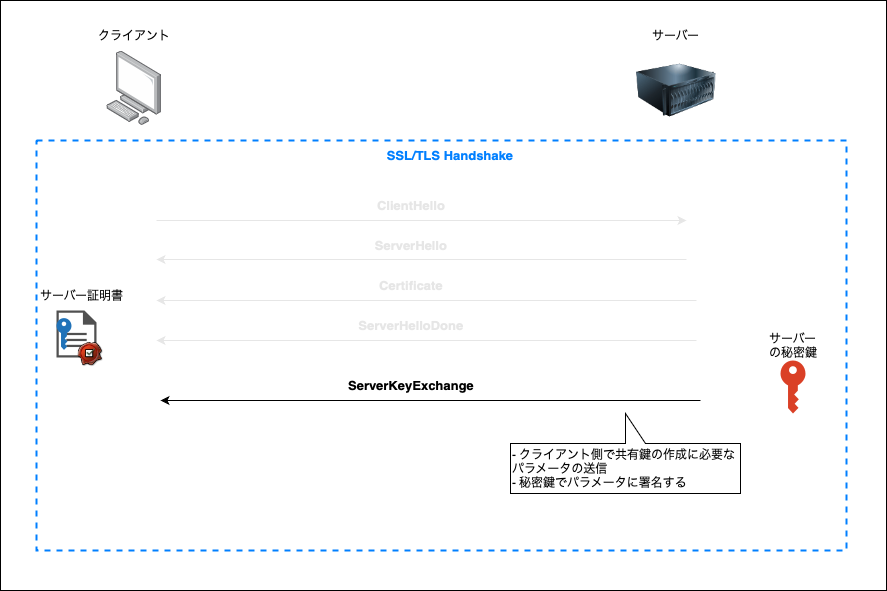
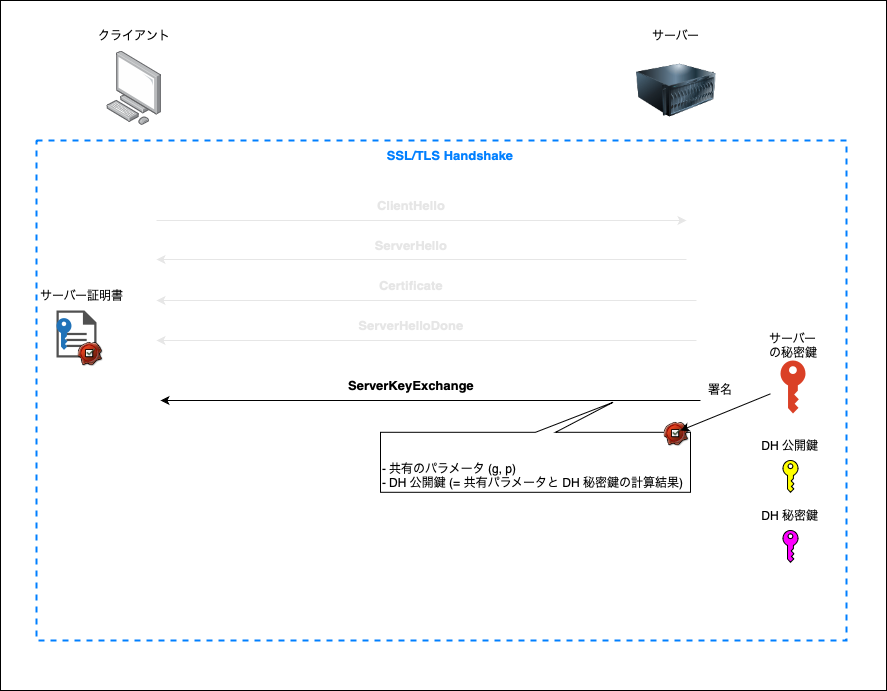
Add note about TLS handshake with DH ey exchange

diff --git a/SSL&TLS.md b/SSL&TLS.md
@@ -170,11 +170,13 @@ ClientHello ~ Certificate までは同じ
 
 4\. ServerKeyExchange (クライアント ← サーバー)
 
-- DH 鍵交換方式での共有鍵の作成に必要なパラメータを送信
-    - 公開パラメータ
-    - サーバー側の DH 公開鍵
+- DH 鍵交換方式での DH 秘密鍵と DH 公開鍵の生成
 
-- パラメータにはサーバーの秘密鍵で RSA 署名をつける
+- DH 鍵交換方式での共有鍵の作成に必要なパラメータを送信
+    - 共有パラメータ (K = g^x mod p の g と p)
+    - DH 公開鍵 (g^x mod p の計算結果)
+
+- 上記データにはサーバーの秘密鍵で署名をつける
 
 <img src="./img/TLS-Handshake_10.png" />
 
@@ -182,11 +184,55 @@ ClientHello ~ Certificate までは同じ
 
 5. ClientKeyExchange (クライアント → サーバー)
 
-- 受け取ったサーバーの DH 公開鍵 および公開パラメータとクライアント側の DH 秘密鍵より DH 共通鍵 = 「プリマスターシークレット」を生成する
+- 受け取ったデータを証明書(公開鍵)で検証する
+
+- クライアント側で DH 秘密鍵と DH 公開鍵の生成
+
+- 受け取ったサーバーの DH 公開鍵 および共有パラメータとクライアント側の DH 秘密鍵より「プリマスターシークレット」を生成する
 
 - プリマスターシークレット、クライアントランダム、サーバーランダムより「マスターシークレット」を作成する
 
-- マスターシークレットより、セッションキーと MAC キーを生成する
+- マスターシークレットより、共通鍵と MAC キーを生成する
 
 - クライアント側の DH 公開鍵をサーバーに送信する
+
+<img src="./img/TLS-Handshake_11.png" />
+<img src="./img/TLS-Handshake_12.png" />
+<img src="./img/TLS-Handshake_13.png" />
+
+<br>
+
+このpフェーズでのポイント
+- サーバーから送信されたデータより共有鍵を生成する
+- サーバー側でも同じ鍵を生成できるように、　クライアント側の DH 共有鍵を送信する
+
+<br>
+
+6&7\. ChangeCipherSpec, Finished (クライアント → サーバー)
+ 
+- RSA 鍵交換方式と同じ
+
+8\. ChangeCipherSpec (クライアント ← サーバー)
+
+- サーバー側の DH 秘密鍵とクライアントの DH 公開鍵からプリマスターシークレットを生成する
+
+- プリマスターシークレット、クライアントランダム、サーバーランダムより「マスターシークレット」を作成する
+
+- マスターシークレットより、共通鍵と MAC キーを生成する
+
+- クライアントに暗号化通信の準備完了を知らせる
+
+<img src="./img/TLS-Handshake_14.png" />
+<img src="./img/TLS-Handshake_15.png" />
+
+<br>
+
+9\. Finihsed (クライアント ← サーバー)
+
+- RSA 鍵交換方式と同じ
+
+<br>
+
+*ECDHE は交換するパラメーターや、公開鍵、秘密鍵、共通鍵の計算方法が違う数学の領域 (楕円曲線の加算) を利用するイメージ
+
 
